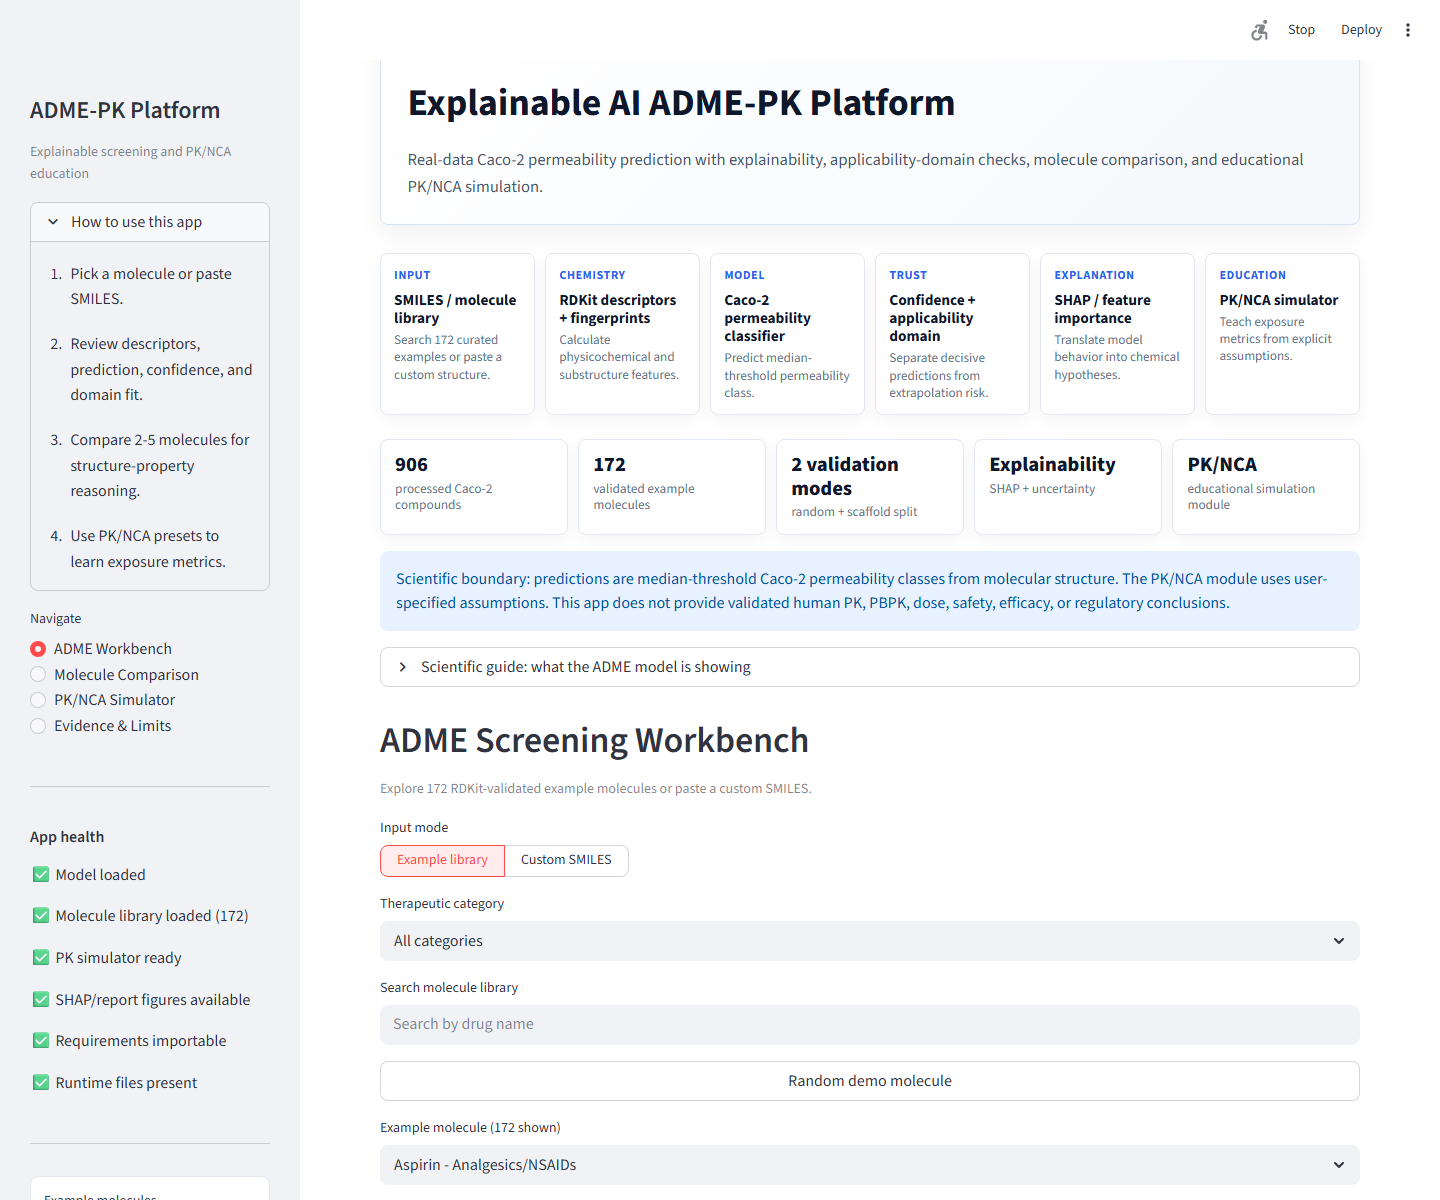
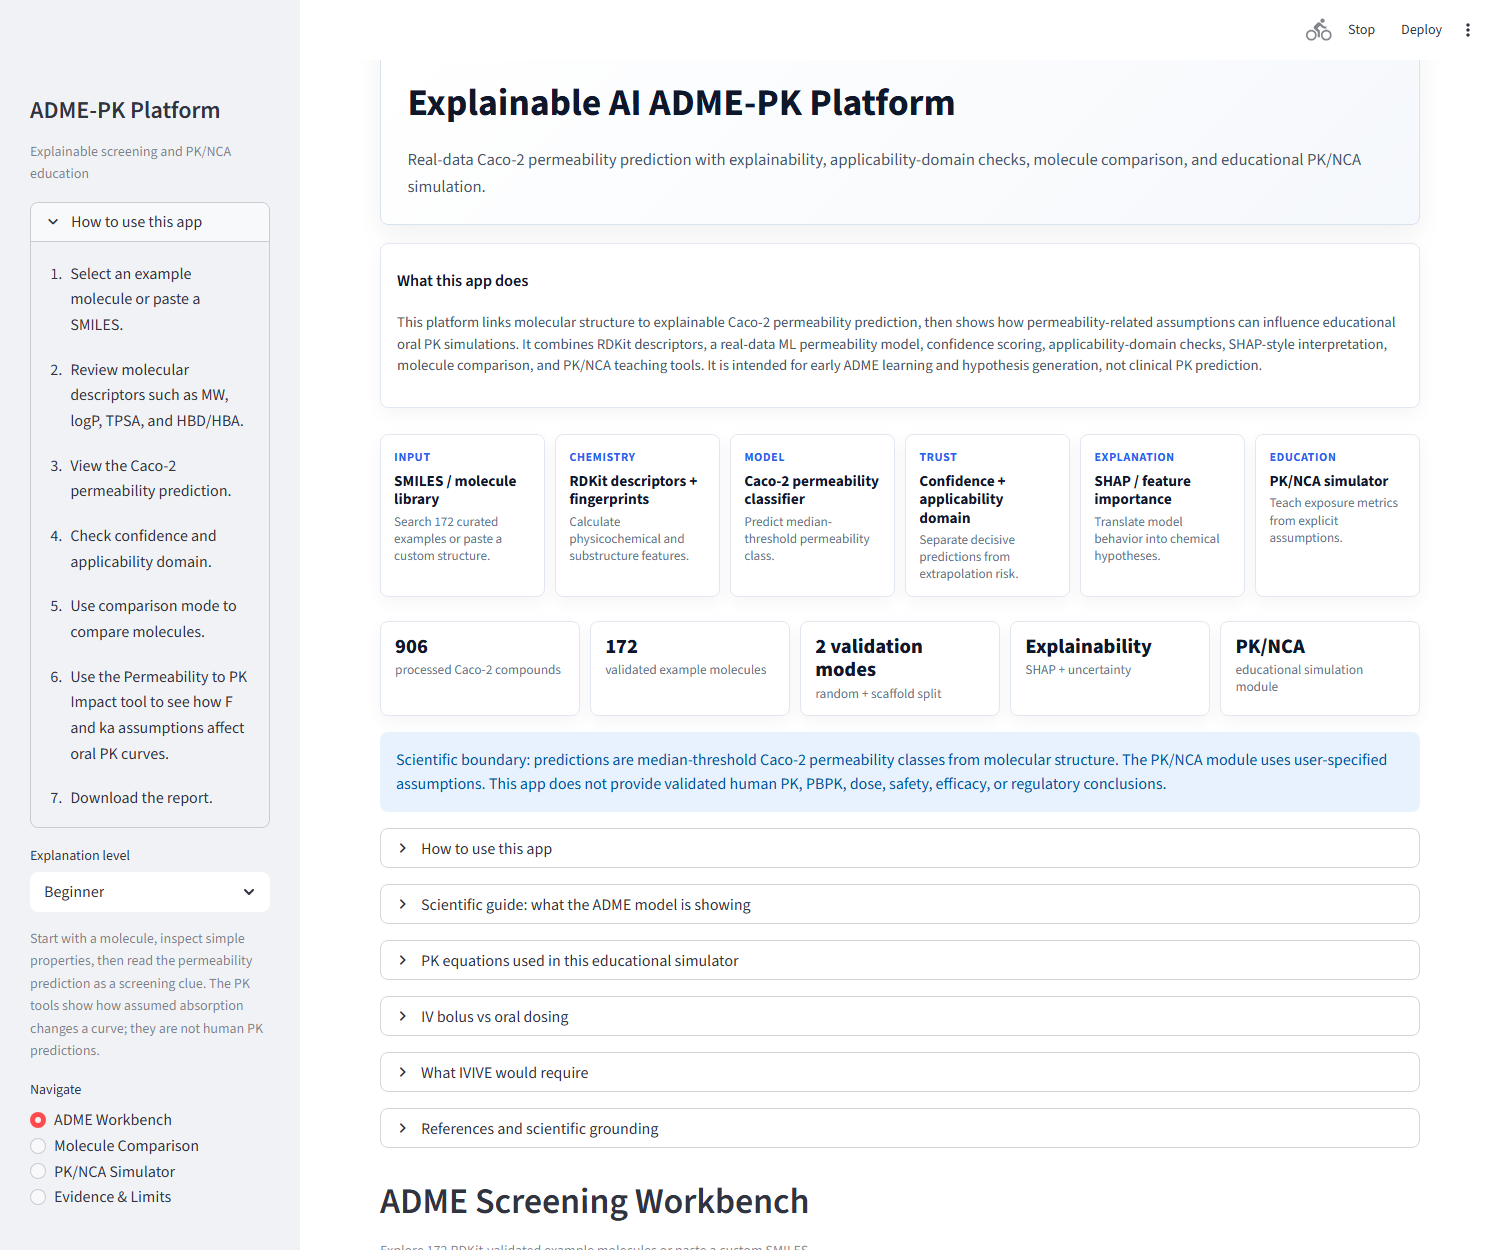
Regenerate app screenshots after UI and PK education upgrade

diff --git a/docs/screenshots/README.md b/docs/screenshots/README.md
@@ -1,20 +1,23 @@
 # Screenshot Index
 
-These screenshots were generated from the local Streamlit app for GitHub, LinkedIn, recruiter, and academic review materials.
+Fresh screenshots generated from the local Streamlit app after the educational PK/ADME explanation and report-download upgrades.
 
-| File | Shows | Recommended use | Notes |
+| Screenshot | App section shown | What a reviewer should look at | Recommended use |
 |---|---|---|---|
-| `01_home_dashboard.png` | Home / landing dashboard | GitHub README, recruiter demo, LinkedIn hero | Captured |
-| `02_molecule_input_aspirin.png` | Molecule input section using Aspirin | GitHub README, PI review | Captured |
-| `03_descriptor_summary.png` | Descriptor Summary tab | PK/ADME reviewer detail | Captured |
-| `04_permeability_prediction.png` | Permeability Prediction tab | Recruiter demo, AI-health review | Captured |
-| `05_confidence.png` | Confidence tab | AI-health review, model-risk discussion | Captured |
-| `06_applicability_domain.png` | Applicability Domain tab | Academic review, model reliability | Captured |
-| `07_explainable_ai.png` | Explainable AI tab | Explainability portfolio evidence | Captured |
-| `08_scientific_limitations.png` | Scientific Limitations tab | Scientific rigor and responsible-use review | Captured |
-| `09_pk_nca_simulator.png` | PK/NCA Simulator overview | PK education demo | Captured |
-| `10_pk_nca_results.png` | PK/NCA concentration-time graph and NCA table | PK/NCA result review | Captured |
-| `11_molecule_comparison.png` | Molecule comparison mode | Recruiter demo, LinkedIn carousel | Captured |
-| `12_example_molecule_library.png` | Example molecule library / search-filter view | GitHub README, demo setup | Captured |
+| `01_home_dashboard.png` | Home dashboard | Overall product framing, hero cards, workflow, and metric cards. | GitHub README, recruiter demo |
+| `02_how_to_use_and_app_overview.png` | How-to-use and app overview | Beginner workflow, what the platform does, and scientific grounding. | GitHub README, student onboarding |
+| `03_molecule_input_aspirin.png` | Aspirin molecule input/profile | SVG rendering, canonical SMILES, teaching note, and key properties. | PI review, recruiter demo |
+| `04_descriptor_summary.png` | Descriptor summary | Descriptor table and medicinal chemistry interpretation. | PK/ADME reviewer |
+| `05_permeability_prediction.png` | Permeability prediction | Prediction card, probability, model source, and decision-support interpretation. | AI-health recruiter, PI review |
+| `06_confidence_and_uncertainty.png` | Confidence and uncertainty | Confidence score, entropy, and reliability explanation. | Model-risk review |
+| `07_applicability_domain.png` | Applicability domain | Tanimoto similarity, nearest neighbor, and domain-shift explanation. | Academic reviewer |
+| `08_explainable_ai.png` | Explainable AI | Descriptor driver table, SHAP-style interpretation, and chemical caveats. | Explainability portfolio |
+| `09_molecule_comparison.png` | Molecule comparison | Aspirin, caffeine, ibuprofen, metformin, and propranolol comparison dashboard. | LinkedIn, recruiter demo |
+| `10_pk_nca_simulator.png` | PK/NCA simulator | Oral preset, parameters, metric cards, and concentration-time plot. | PI review, PK teaching |
+| `11_permeability_to_pk_impact.png` | Permeability-to-PK impact | F/ka assumption mapping, AUC/Cmax/Tmax/CL-F ratios, and interpretations. | PK/ADME reviewer |
+| `12_pk_impact_comparison_curves.png` | PK impact comparison curves | Reference vs permeability-adjusted oral concentration-time curves. | PK teaching, PI review |
+| `13_equations_iv_oral_ivive.png` | Equations, IV/oral, IVIVE | PK equations, route explanation, and IVIVE boundary. | Academic review |
+| `14_report_download_section.png` | Report download section | Markdown report and CSV download buttons. | GitHub README, reviewer handoff |
+| `15_scientific_limitations_and_reviewer_summary.png` | Scientific limits and reviewer summary | Reviewer summary and external validation roadmap. | PI review, scientific rigor |
 
-Scientific boundary: screenshots show Caco-2 permeability risk prediction and educational PK/NCA simulation only. They do not show validated clinical PK, PBPK, safety, efficacy, dose, or regulatory prediction.
+Scientific boundary: screenshots show Caco-2 permeability prediction and educational PK/NCA/permeability-to-PK impact simulation only. They do not show validated human PK, clinical, regulatory, safety, efficacy, or dose prediction.
